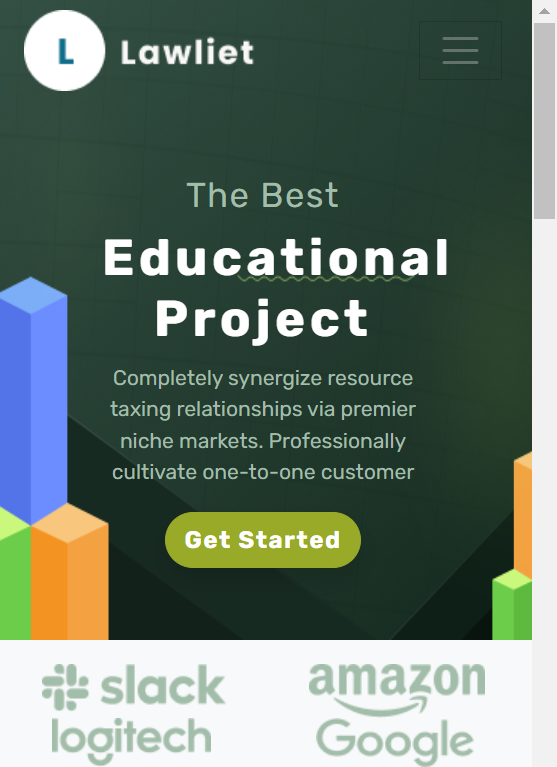
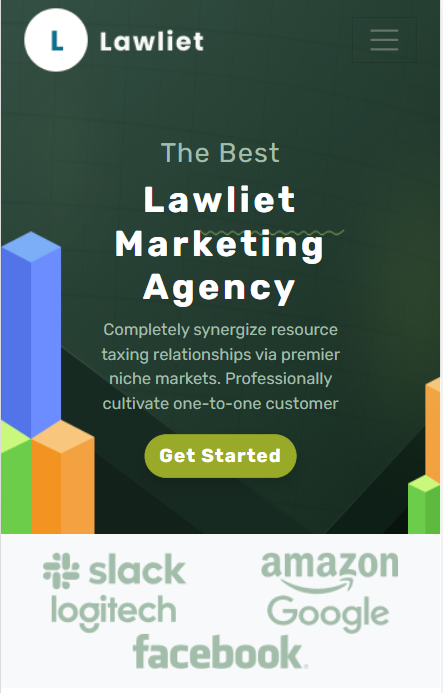
22/11 readme and header

diff --git a/index.html b/index.html
@@ -129,7 +129,7 @@
             The Best
           </h3>
           <h1 class="display-5 text-white fw-bold d-block text-center h1 mx-auto" style="letter-spacing: +3">
-            Educational Project
+           Lawliet Marketing Agency
           </h1>
           <!--  -->
           <p class="d-block text-secondary p-lg-3 p-sm-1 text-wrap text-break">

diff --git a/README.md b/README.md
@@ -1,8 +1,9 @@
-# Frontend Project
-Educatiol Project
+#  Project Description
+This is a Frontend Responsive Website for Lawliet Marketing Agency that shows the company's profile and projetcs as well as sponsers and customers.
 
 # Motivation
-This is an Educational Project.
+The Company want a website to attract more customers and for the purpose of renovating her old identity and branding.Also a form for newsletter subscrition and for showing case the comapny's blog.
+In Addition to Features , Pricing , about sections and contact us form. 
 
 
 ## Getting Started
